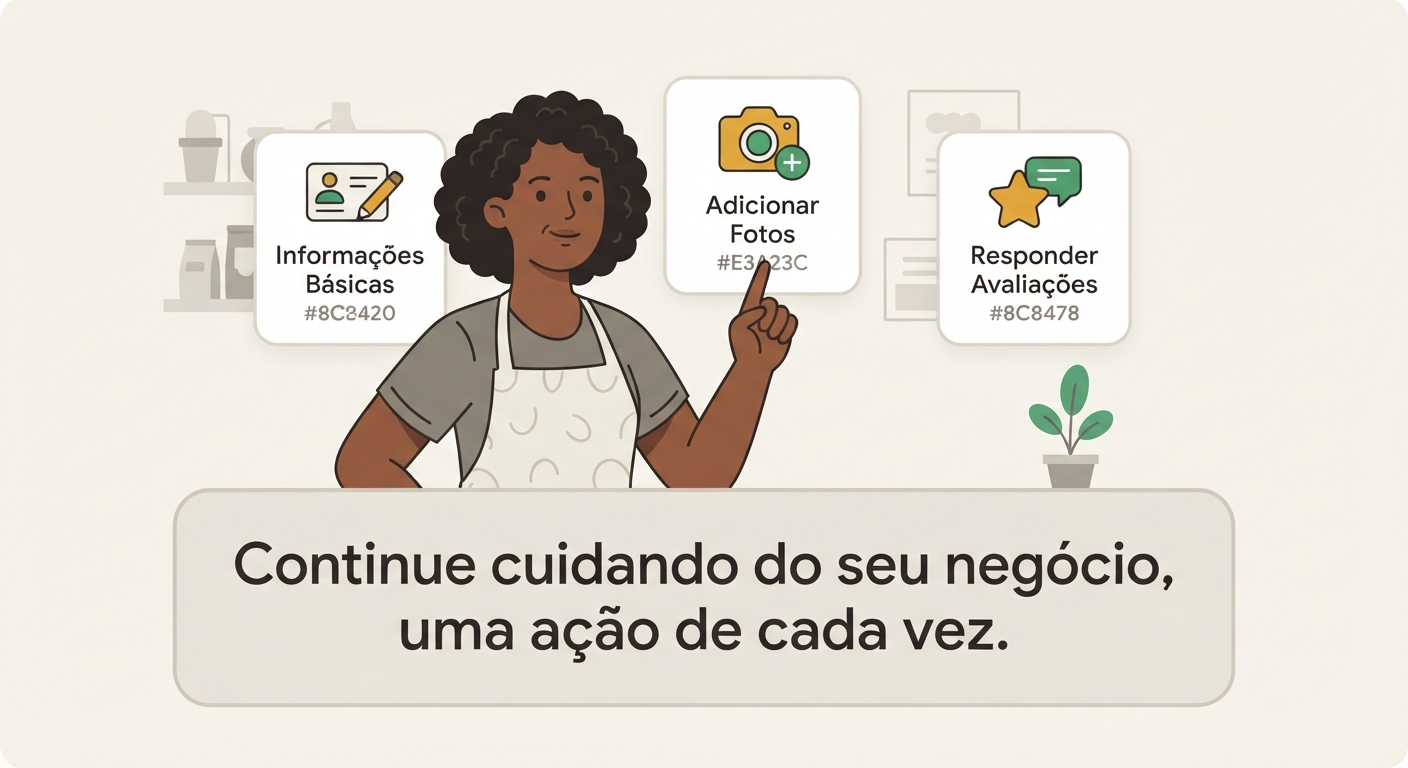
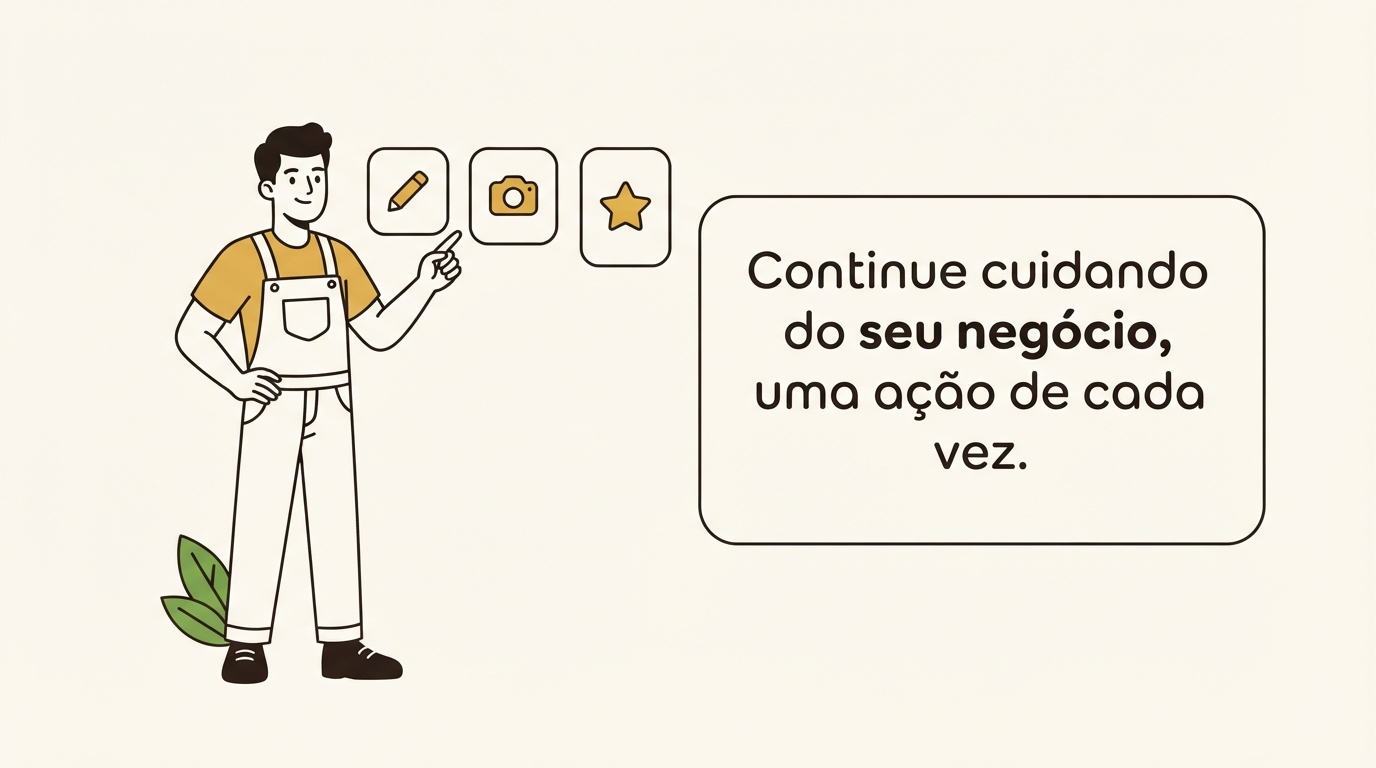
fix: integra 8 imagens regeneradas sem defeito (lote R1-R11)

Changed region(s): [[0.0938, 0.0938, 0.9062, 0.9375]]

diff --git a/docs/07-CHANGELOG.md b/docs/07-CHANGELOG.md
@@ -1,5 +1,18 @@
 # Changelog
 
+## 2026-09-19 — 8 das 11 imagens regeneradas integradas; 3 devolvidas para regenerar
+
+A pedido do usuário ("criei uma pasta imagens-correçao, faz uma analise das imagens e implementa no projeto"), analisadas uma a uma as 11 imagens de `C:\Users\kairo\Documents\Projetos\imagens-correçao` (nomes genéricos `cena-0N`, mapeadas pelo conteúdo visível) contra os prompts R1–R11 de `docs/14-PROMPTS-DE-IMAGEM-LICOES.md` e os critérios da auditoria (`docs/16`, sem inglês, sem palavra inventada, sem código vazado).
+
+**Integradas (8, sobrescrevendo os arquivos com defeito, mesmo caminho — sem mudança nos `.ts`):** `business-hours-matter/cena-01`, `explain-what-you-offer/cena-01` e `cena-02`, `how-to-respond-to-reviews/cena-01`, `choose-your-next-action/cena-01`, `why-appear-in-local-search/cena-03`, `accurate-business-info/cena-03`, `keep-your-profile-updated/cena-04`. Ressalvas aceitas e registradas: `explain/cena-02` saiu com "precisa,não" (vírgula sem espaço após — detalhe tipográfico, sem impacto na leitura); `business-hours/cena-01` veio com composição levemente diferente do R4 (selo "ABERTO AGORA" em vez de faixa + manchete parcial no canto, texto correto em ambos).
+
+**Devolvidas para regenerar (3, NÃO integradas — os arquivos com defeito antigo continuam no ar):**
+- `cena-01(3).jpg` (era `first-profile-checkup/cena-01`, R10): cabeçalho do celular saiu em inglês, "Company Profile summary" — viola o critério "sem inglês" da auditoria. Regenerar com o R10 pedindo cabeçalho só com seta de voltar + ícone, sem nenhuma palavra.
+- `cena-03(1).jpg` (era `profile-represents-your-business/cena-03`, R2): legenda com palavra duplicada ("seu perfil perfil") + campo rotulado "Name" em inglês. Regenerar com o R2 reforçando frase exata e campo sem rótulo.
+- `cena-04.jpg` (era `photos-help-customers-decide/cena-04`, R7): selo verde com a palavra "update" em inglês (o R7 permitia só "Antes"/"Depois"). Regenerar com o R7 pedindo só o ícone de atualizar, sem palavra no selo.
+
+Validado com `npm run lint` e `npm run build`, ambos limpos. Restam 3 imagens com defeito antigo no ar até a segunda rodada chegar.
+
 ## 2026-09-19 — Prompts de regeneração das imagens com defeito preparados (sem troca de asset)
 
 A pedido do usuário ("imagens com defeito"), atacada a dívida nº 1 de `docs/16-AUDITORIA-EDITORIAL-LICOES.md` (10 imagens com defeito técnico). Feito nesta sessão: recontagem file a file + conferência visual por amostragem (defeitos confirmados nos arquivos atuais, inalterados desde a auditoria) e escrita de prompts de regeneração corrigidos — **nenhuma imagem foi gerada, aprovada ou substituída** (geração continua manual, via Gemini, pelo usuário).
